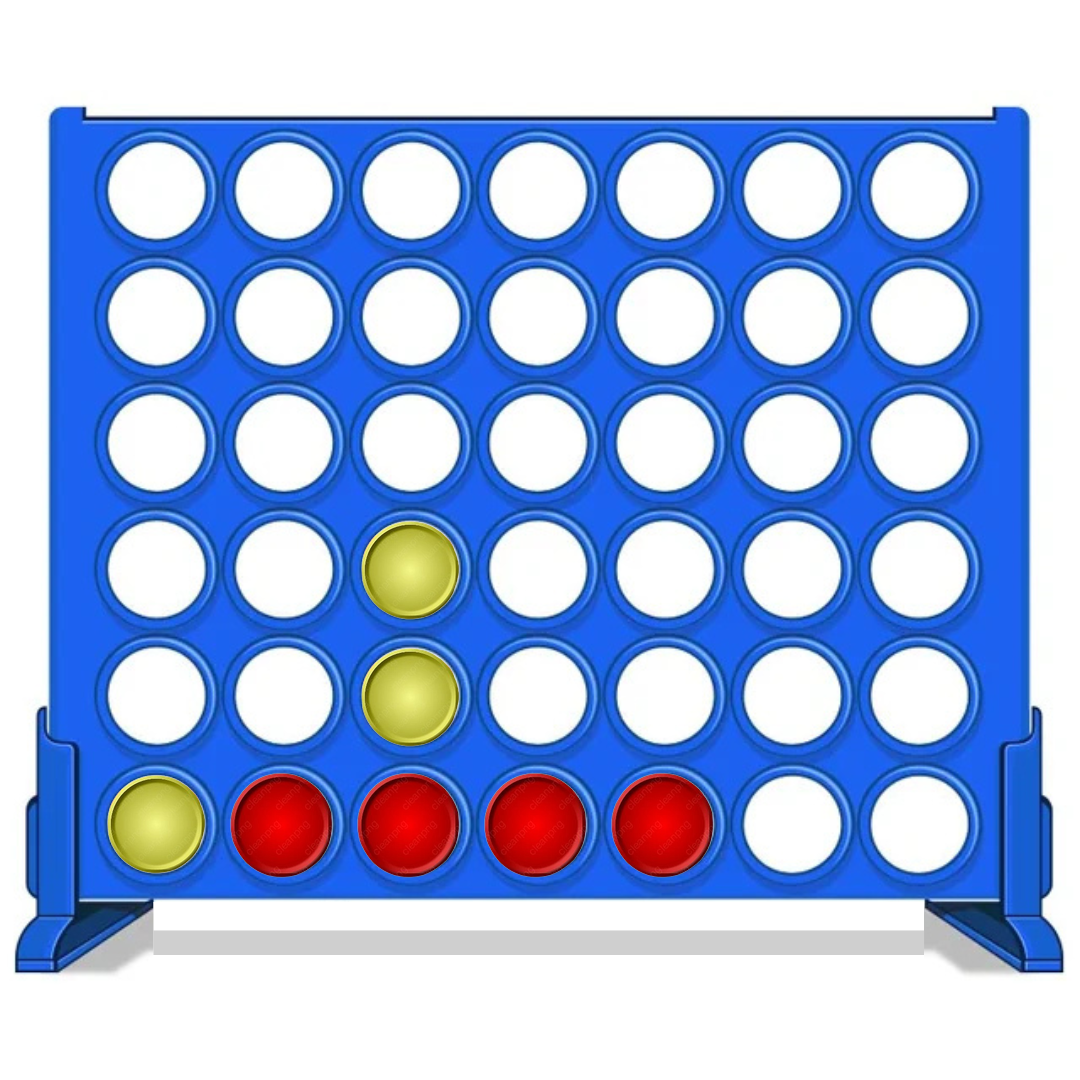
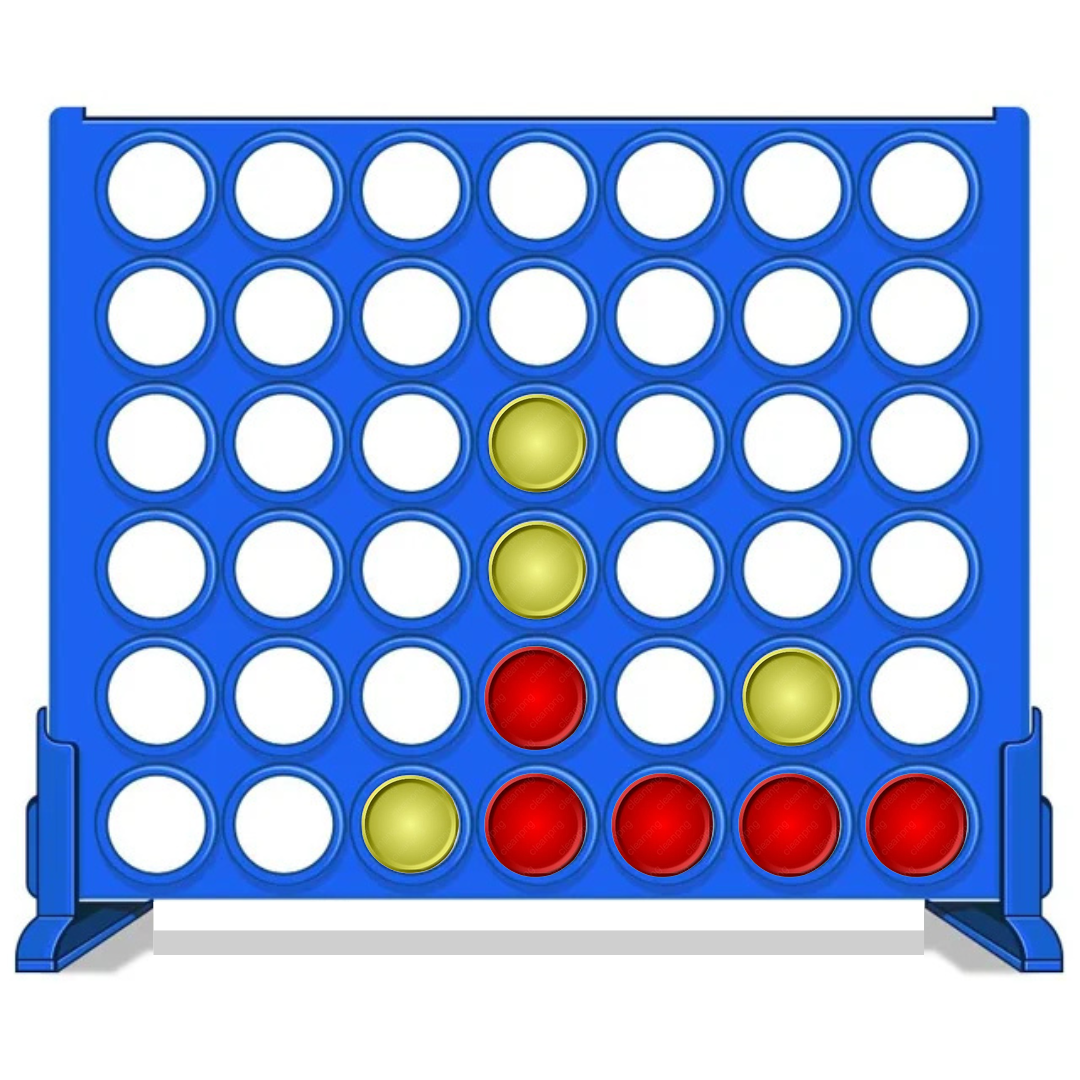
Add ConnectFourOutput.png to .gitignore and implement user answer tracking in flag_guesser.py; enhance button state synchronization in memory.py

Changed region(s): [[0.0917, 0.3667, 0.55, 0.825], [0.6722, 0.5806, 0.9167, 0.825]]

diff --git a/games/dm/memory.py b/games/dm/memory.py
@@ -232,9 +232,8 @@ class MemoryButtons(discord.ui.View):
         
         try:
             # Reveal the card (use _card_value_to_emoji so custom emojis like :clown: render instead of staying blue)
-            button.emoji = self._card_value_to_emoji(self.card_values[index])
-            button.style = discord.ButtonStyle.blurple
             self.selected_cards.append(index)
+            self._sync_buttons_from_state()
             
             # Update the view
             await interaction.message.edit(view=self)
@@ -275,12 +274,6 @@ class MemoryButtons(discord.ui.View):
             self.matched_cards.add(index1)
             self.matched_cards.add(index2)
             
-            # Update buttons to show matched state
-            button1.style = discord.ButtonStyle.green
-            button2.style = discord.ButtonStyle.green
-            button1.disabled = True
-            button2.disabled = True
-            
             # Award XP for match
             match_xp = self.game_config.get('MATCH_XP', {}) or self.game_config.get('xp', {}).get('match', {})
             xp = random.randint(
@@ -310,7 +303,8 @@ class MemoryButtons(discord.ui.View):
             # Save state after match
             await self._save_state()
             
-            # Update message
+            # Sync button styles from state so matched tiles always show green (fixes visual glitch)
+            self._sync_buttons_from_state()
             await interaction.message.edit(embed=embed, view=self)
         else:
             # No match - flip cards back
@@ -326,9 +320,12 @@ class MemoryButtons(discord.ui.View):
             # Update embed
             embed.set_field_at(0, name="Tries Remaining", value=str(self.tries_remaining))
             
-            # Show cards briefly, then flip back
-            button1.style = discord.ButtonStyle.red
-            button2.style = discord.ButtonStyle.red
+            # Show cards briefly (red = no match), then flip back
+            self._sync_buttons_from_state()
+            for idx in (index1, index2):
+                b = self._get_button(idx)
+                if b:
+                    b.style = discord.ButtonStyle.red
             await interaction.message.edit(embed=embed, view=self)
             
             # Wait 1.5 seconds before flipping back
@@ -340,13 +337,8 @@ class MemoryButtons(discord.ui.View):
                 return
             
             # Flip cards back
-            button1.emoji = "❓"
-            button2.emoji = "❓"
-            button1.style = discord.ButtonStyle.grey
-            button2.style = discord.ButtonStyle.grey
-            
-            # Clear selected cards
             self.selected_cards.clear()
+            self._sync_buttons_from_state()
             
             # Save state after match
             await self._save_state()
@@ -369,7 +361,8 @@ class MemoryButtons(discord.ui.View):
         )
         self.total_xp += xp
         
-        # Disable all buttons
+        # Sync all button styles from state (matched = green), then disable all
+        self._sync_buttons_from_state()
         for child in self.children:
             if isinstance(child, discord.ui.Button):
                 child.disabled = True
@@ -426,7 +419,8 @@ class MemoryButtons(discord.ui.View):
         # Save final state
         await self._save_state()
         
-        # Disable all buttons
+        # Sync button styles (matched = green) then disable all
+        self._sync_buttons_from_state()
         for child in self.children:
             if isinstance(child, discord.ui.Button):
                 child.disabled = True
@@ -506,6 +500,27 @@ class MemoryButtons(discord.ui.View):
             if isinstance(child, discord.ui.Button) and child.custom_id == f"mem_{index}_{self.game_id}":
                 return child
         return None
+
+    def _sync_buttons_from_state(self):
+        """Sync all button styles/emoji/disabled from game state. Call before every message.edit(view=self)
+        so matched tiles always render green and we avoid visual glitches where they stay blue.
+        """
+        for i in range(20):
+            button = self._get_button(i)
+            if not button:
+                continue
+            if i in self.matched_cards:
+                button.style = discord.ButtonStyle.green
+                button.disabled = True
+                button.emoji = self._card_value_to_emoji(self.card_values[i])
+            elif i in self.selected_cards:
+                button.style = discord.ButtonStyle.blurple
+                button.emoji = self._card_value_to_emoji(self.card_values[i])
+                button.disabled = False
+            else:
+                button.style = discord.ButtonStyle.grey
+                button.emoji = "❓"
+                button.disabled = self.game_ended
     
     async def _check_valid_game(self, interaction: discord.Interaction) -> bool:
         """Check if the game is still valid."""

diff --git a/games/chat/flag_guesser.py b/games/chat/flag_guesser.py
@@ -254,6 +254,7 @@ class CountryButtons(discord.ui.View):
             }
         self.xp_config = xp_config
         self.winner_count = 0
+        self.answered_user_ids: set = set()  # Users who have already answered (right or wrong) - one attempt per user
         
         for answer in answers:
             button = discord.ui.Button(
@@ -266,6 +267,23 @@ class CountryButtons(discord.ui.View):
     
     def create_callback(self, answer: str):
         async def callback(interaction: discord.Interaction):
+            # One answer per user: reject if they already answered (right or wrong)
+            if interaction.user.id in self.answered_user_ids:
+                from utils.chat_game_registry import registry
+                if self.message:
+                    registry.log_activity(
+                        self.message.id,
+                        interaction.user.id,
+                        'denied',
+                        'Already answered',
+                        False
+                    )
+                if not interaction.response.is_done():
+                    await interaction.response.send_message("You've already answered this game!", ephemeral=True)
+                else:
+                    await interaction.followup.send("You've already answered this game!", ephemeral=True)
+                return
+            
             # Log activity
             from utils.chat_game_registry import registry
             if self.message:
@@ -276,6 +294,9 @@ class CountryButtons(discord.ui.View):
                     f'Clicked: {answer[:50]}',
                     True
                 )
+            
+            # Mark user as having answered immediately to prevent multiple attempts
+            self.answered_user_ids.add(interaction.user.id)
             
             try:
                 if answer == self.correct_answer: